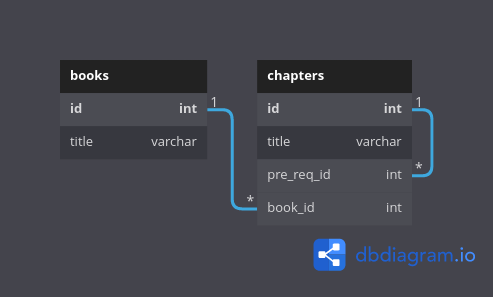
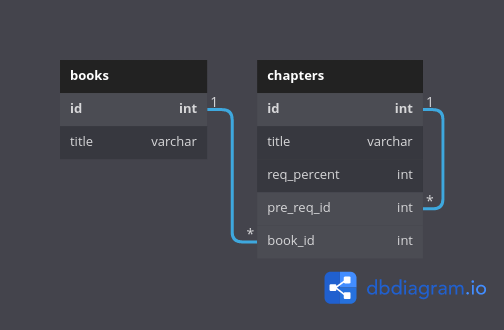
ADD: add_chapter command

diff --git a/Reader.py b/Reader.py
@@ -8,7 +8,48 @@ class BookReader:
         self._create_tables()
 
     def add_chapter(self, book, chapter, RP: int):  # RP = Required Percentage
-        pass
+        with self.connection:
+            if self.has_chapter(book, chapter):
+                book_id = self.get_book_id(book)
+                self.cursor.execute("""
+                    UPDATE Chapters
+                    SET req_percent = ?
+                    WHERE title = ? AND book_id = ?
+                """, (RP, chapter, book_id))
+            else:
+                if not self.has_book(book):
+                    self.cursor.execute("""
+                        INSERT INTO Books(title)
+                        VALUES(?)
+                    """, (book,))
+
+                book_id = self.get_book_id(book)
+                self.cursor.execute("""
+                    INSERT INTO Chapters(title, book_id, req_percent)
+                    VALUES(?, ?, ?)
+                """, (chapter, book_id, RP))
+            self.connection.commit()
+
+    def has_chapter(self, book, chapter):
+        book_id = self.get_book_id(book)
+        if book_id is None:
+            return False
+        with self.connection:
+            self.cursor.execute(
+                "SELECT * FROM Chapters WHERE title = ? AND book_id = ?", (chapter, book_id))
+            return self.cursor.fetchone() is not None
+
+    def has_book(self, book):
+        with self.connection:
+            self.cursor.execute("SELECT * FROM Books WHERE title = ?", (book,))
+            return self.cursor.fetchone() is not None
+
+    def get_book_id(self, book):
+        with self.connection:
+            self.cursor.execute(
+                "SELECT id FROM Books WHERE title = ?", (book,))
+            book_id = self.cursor.fetchone()
+            return book_id[0] if book_id is not None else None
 
     def _create_tables(self):
         with self.connection:
@@ -24,6 +65,7 @@ class BookReader:
                     id INTEGER PRIMARY KEY AUTOINCREMENT,
                     title TEXT NOT NULL,
                     book_id INTEGER NOT NULL,
+                    req_percent INTEGER NOT NULL,
                     pre_req_id INTEGER,
                     FOREIGN KEY(book_id) REFERENCES Books(id),
                     FOREIGN KEY(pre_req_id) REFERENCES Chapters(id)
@@ -58,7 +100,7 @@ class CommandDispatcher:
         pass
 
     def _add_chapter(self, book_name, chapter_name, required_percent):
-        pass
+        self._reader.add_chapter(book_name, chapter_name, required_percent)
 
     def _add_prerequisite_chapter(self, book_name, chapter_name, prerequisite_chapter):
         pass

diff --git a/README.md b/README.md
@@ -18,13 +18,13 @@ the following commands were implemented in the program:
 
 1. Adding a new chapter:
    `add_chapter book_name chapter_name required_percent`
-2. Adding prerequisite chapter:
+1. Adding prerequisite chapter:
    `add_prerequisite_chapter book_name chapter_name prerequisite_chapter_name`
-3. Deleting prerequisite chapter:
+2. Deleting prerequisite chapter:
    `remove_prerequisite_chapter book_name chapter_name prerequisite_chapter_name`
-4. Reading a chapter:
+3. Reading a chapter:
    `read book_name chapter_name percent`
-5. Getting a reading status of a book:
+4. Getting a reading status of a book:
    `stats book_name`
 
    This command prints the number of chapters read and the total
@@ -32,7 +32,7 @@ the following commands were implemented in the program:
 
    `completed_chapters_count of all_chapters_count`
 
-6. Exit the application:
+5. Exit the application:
    `end`
 
 ## Demo
